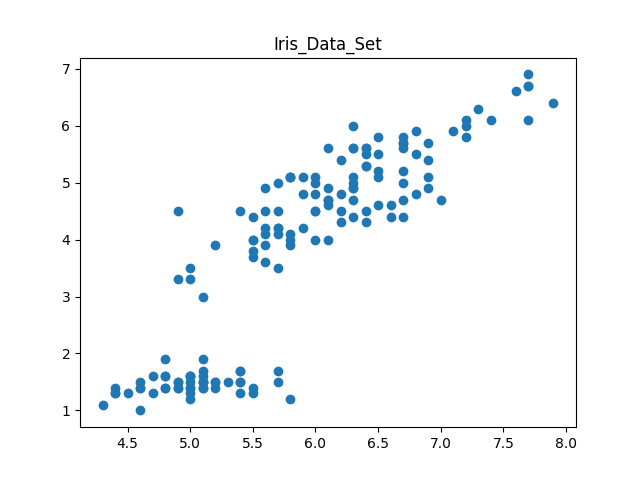
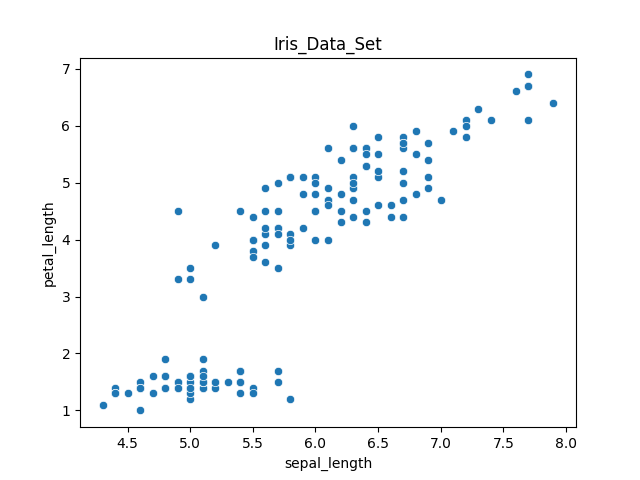
done

diff --git a/files/challege.py b/files/challege.py
@@ -15,11 +15,9 @@ def graph_this(func):
         title = kwargs['title']
 
 
-        x_values = plot_info[0]
-        y_values = plot_info[1]
-        
+                
 
-        PLOT_LINE_CODE = f'plt.{plot_type}(x_values, y_values)'
+        PLOT_LINE_CODE = f"{kwargs['module']}.{plot_type}(plot_info['{kwargs['x_df_name']}'],plot_info['{kwargs['y_df_name']}'])"
 
         exec(PLOT_LINE_CODE)
         plt.title(title)
@@ -36,11 +34,12 @@ def iris_values(*args,**kwargs):
     df = sns.load_dataset('iris')
 
     df_to_return = pd.DataFrame([df['sepal_length'] , df['petal_length']])
-    return [list(df['sepal_length']), list(df['petal_length'])]
+    return df_to_return.T
 
 
 
-iris_values(type = 'scatter', title = 'Iris_Data_Set')
+iris_values(module = 'sns',type = 'scatterplot', title = 'Iris_Data_Set', x_df_name = 'sepal_length', 
+            y_df_name = 'petal_length')
 
 
 

diff --git a/tests.py b/tests.py
@@ -1,4 +1,6 @@
 import matplotlib.pyplot as plt
+import seaborn as sns
+import pandas as pd
 # plt method with str
 
 type_plot = 'plot'
@@ -10,8 +12,6 @@ plt.text(3,4,"Texto")
 x = [1,2,3]
 y = [12,4,4]
 
-exec(to_execute)
-plt.savefig("done.png")
 
 
 
@@ -22,4 +22,16 @@ def test(*args, **kwargs):
     print(kwargs['x'])
 
 
-test("hola", x = 'hola2')
+# df_creation 
+def iris_values(*args,**kwargs):
+    df = sns.load_dataset('iris')
+
+    df_to_return = pd.DataFrame([df['sepal_length'] , df['petal_length']]).T
+    
+    plt.scatter(df_to_return['sepal_length'], df['petal_length'])
+    plt.savefig("plot.png")
+    return df_to_return
+
+
+
+iris_values()
